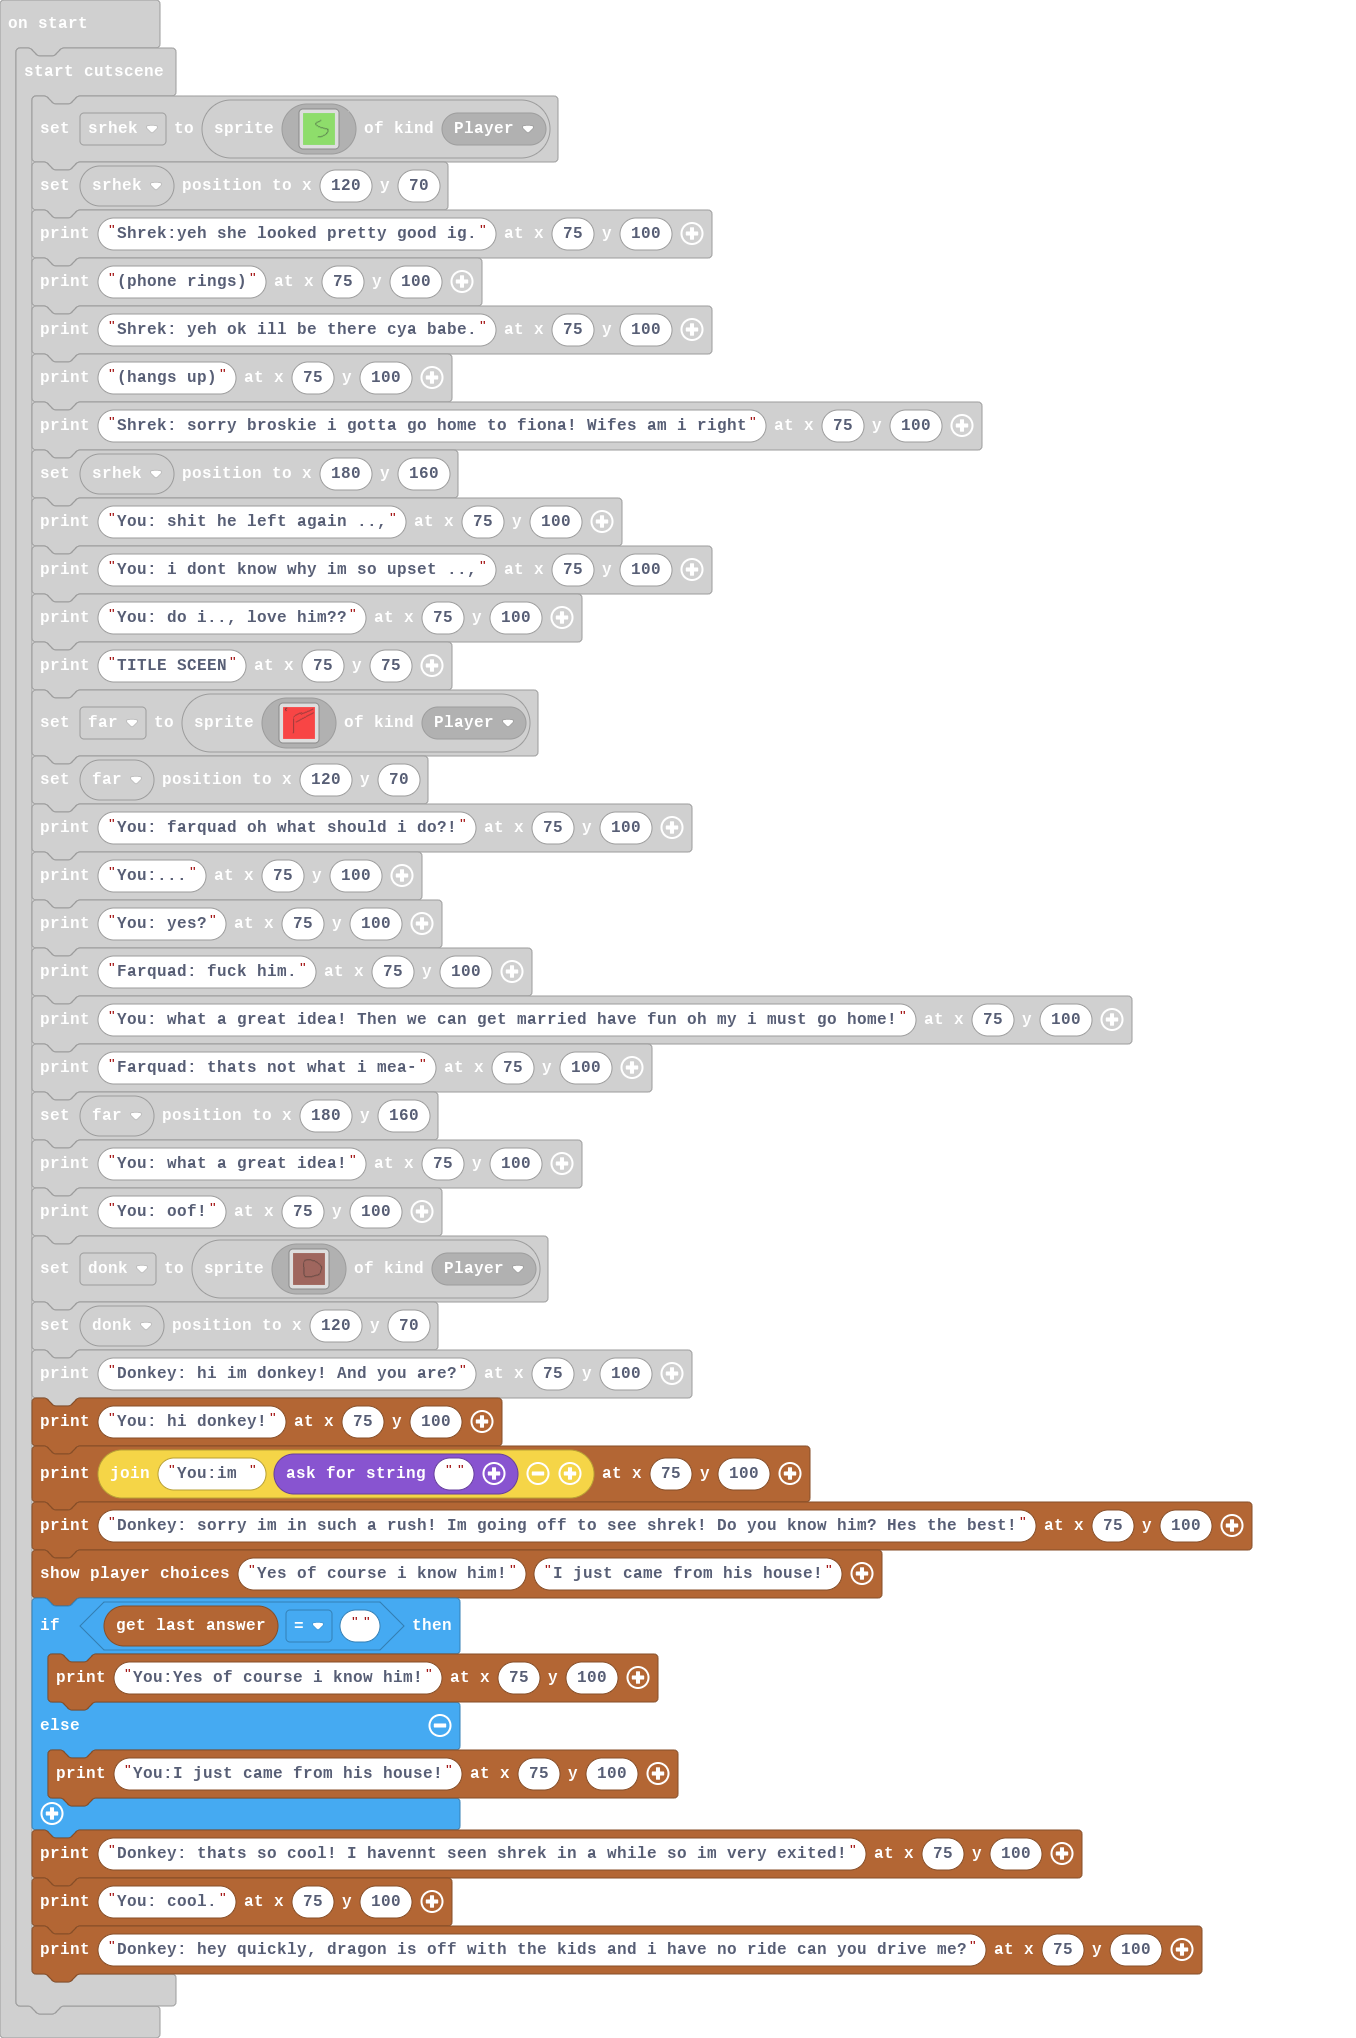
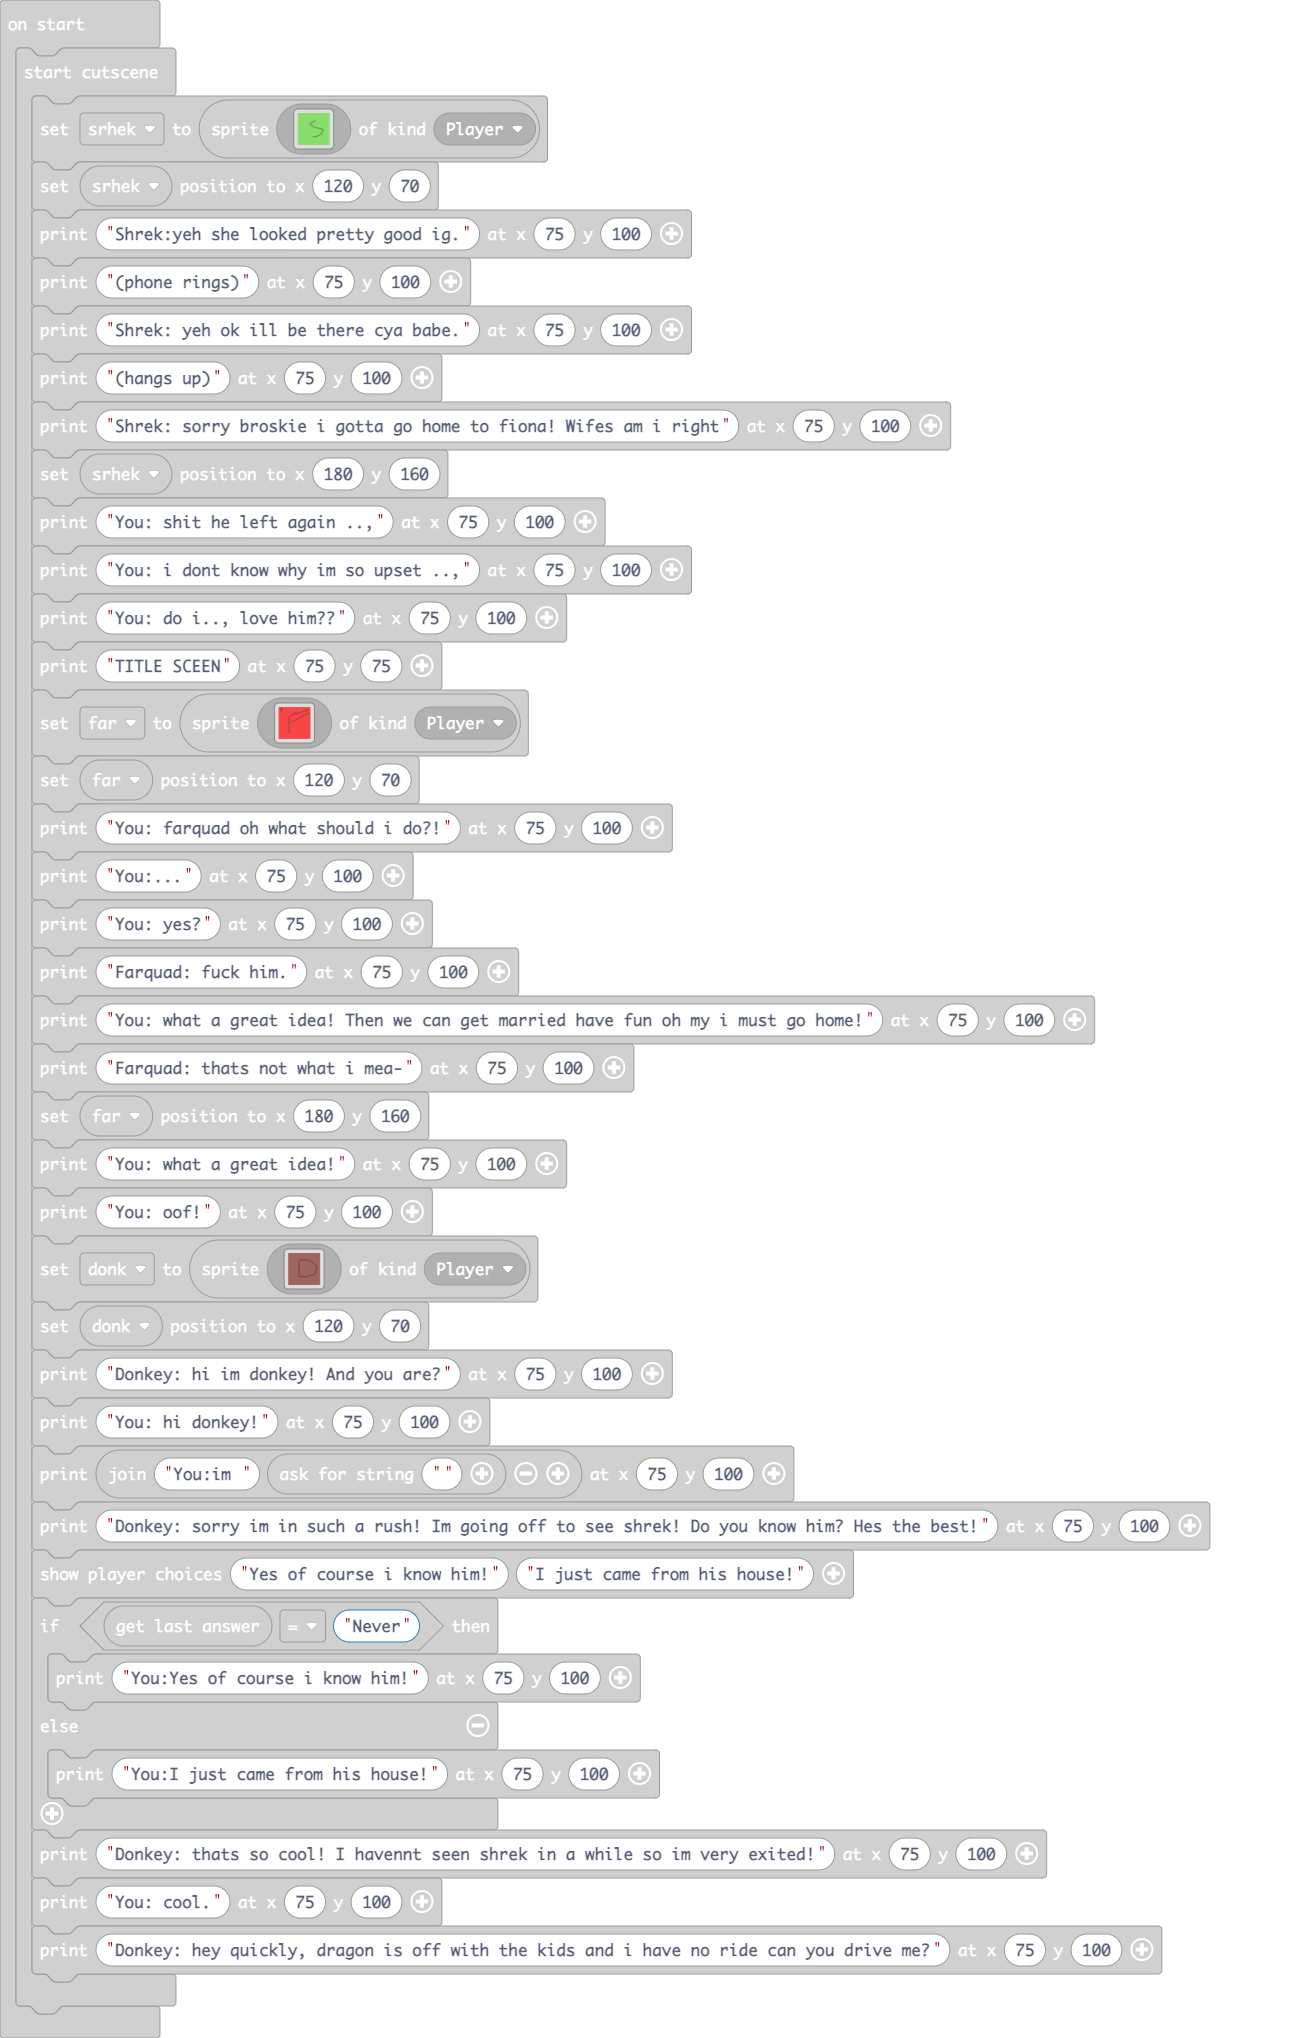
Update main.blocks, main.ts

diff --git a/main.ts b/main.ts
@@ -227,7 +227,7 @@ story.startCutscene(function () {
     story.printText("You:im " + game.askForString(""), 75, 100)
     story.printText("Donkey: sorry im in such a rush! Im going off to see shrek! Do you know him? Hes the best!", 75, 100)
     story.showPlayerChoices("Yes of course i know him!", "I just came from his house!")
-    if (story.getLastAnswer() == "") {
+    if (story.getLastAnswer() == "Never") {
         story.printText("You:Yes of course i know him!", 75, 100)
     } else {
         story.printText("You:I just came from his house!", 75, 100)
